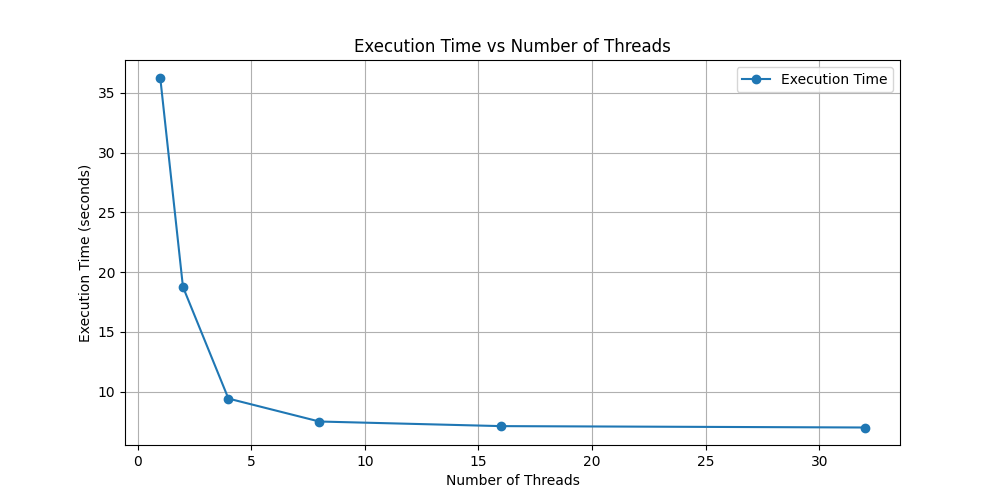
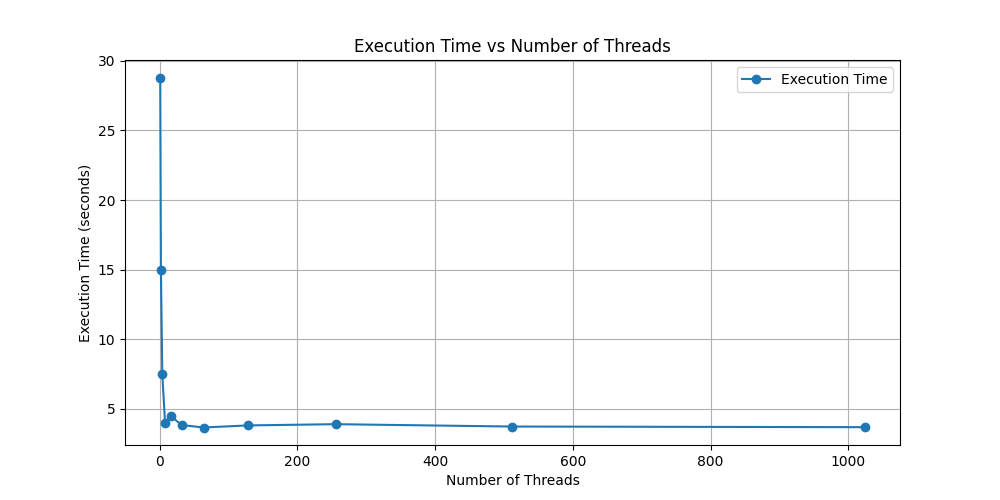
made final version of calculation with differnt array sizes

diff --git a/analyzer.py b/analyzer.py
@@ -3,9 +3,11 @@ import os
 import subprocess
 import numpy as np
 import math
+from prettytable import PrettyTable
 
 matrix_size = 1000 
-thread_counts = [1, 2, 4, 8, 16, 32]
+thread_counts = [1, 2, 4, 8, 16, 32, 64]
+array_sizes = [200, 500, 1000]
 program = "./main"
 results = []
 tolerance = 1e-6   
@@ -22,9 +24,8 @@ def generate_and_save_data(size):
     np.savetxt("vector_y.txt", y, fmt="%.6f")
     print(f"Generated and saved data for matrix size {size}.")
 
-def run_program(threads, use_files=False):
-    os.environ["OMP_NUM_THREADS"] = str(threads)
-    command = [program]
+def run_program(threads, size, use_files=False):
+    command = [program, "--threads", str(threads), "--size", str(size)]
     if use_files:
         command.append("--use-files")
     result = subprocess.run(command, capture_output=True, text=True)
@@ -43,17 +44,17 @@ def run_program(threads, use_files=False):
 # 1- prepare verification step 
 generate_and_save_data(matrix_size)
 
-print("Running sequential version (1 thread, with files)...")
-seq_time, seq_result = run_program(1, use_files=True)
+print("Running sequential version for checking (1 thread, with array size of 1000, With using generated array data)...")
+seq_time, seq_result = run_program(1, use_files=True, size=1000)
 if seq_time is None or seq_result is None:
     print("Failed to retrieve results for the sequential run.")
     exit()
 
-print(f"Sequential Result (from files): {seq_result}")
-print(f"Sequential Execution Time (from files): {seq_time} seconds")
+print(f"Sequential Result: {seq_result}")
+print(f"Sequential Execution Time: {seq_time} seconds")
 
 print(f"Running with 8 threads to compare the results with the sequential")
-par_time, par_result = run_program(8, use_files=True)
+par_time, par_result = run_program(8, use_files=True, size=1000)
 if par_time is None or par_result is None:
     print(f"Failed to retrieve results for 8 threads.")
 elif math.isclose(seq_result, par_result, rel_tol=tolerance):
@@ -62,55 +63,50 @@ else:
     print(f"Validation failed for 8 threads! Sequential: {seq_result}, Parallel: {par_result}")
 
 
+execution_times = {size: {} for size in array_sizes}  # Store execution times by size and thread count
+
 # 2- running all threads
-for threads in thread_counts:
-    print(f"Running with {threads} threads...")
-    os.environ["OMP_NUM_THREADS"] = str(threads)
-    result = subprocess.run([program], capture_output=True, text=True)
+for size in array_sizes:
+    for threads in thread_counts:
+        print(f"Running with {size} size {threads} threads...")
+        execution_time, computed_result = run_program(threads, use_files=False, size=size)
 
-    # Extract execution time from the output
-    execution_time = None
-    for line in result.stdout.split("\n"):
-        if "Execution Time" in line:
-            execution_time = float(line.split(":")[1].strip())
-            break
+        print(execution_time)
+        if execution_time is not None:
+                execution_times[size][threads] = execution_time
+        else:
+            print(f"Failed to extract execution time for {threads} threads.")
 
-    if execution_time is not None:
-        results.append((threads, execution_time))
-    else:
-        print(f"Failed to extract execution time for {threads} threads.")
 
-if not results:
-    print("No results captured. Ensure the C++ program is working correctly.")
-    exit()
+# Calculate speedups
+speedups = {size: {} for size in array_sizes}
+for size in array_sizes:
+    sequential_time = execution_times[size][1]  # Time for 1 thread as the baseline
+    for threads in thread_counts:
+        speedups[size][threads] = sequential_time / execution_times[size][threads]
 
-threads, times = zip(*results)
-sequential_time = times[0]
-speedups = [sequential_time / time for time in times]
+# Print speedup tables to console
+for size in array_sizes:
+    table = PrettyTable()
+    table.field_names = ["Threads", "Speedup"]
+    for threads in thread_counts:
+        table.add_row([threads, round(speedups[size][threads], 2)])
+    print(f"\nSpeedup Table for Matrix Size {size}x{size}")
+    print(table)
 
-# Execution Time vs Threads
-plt.figure(figsize=(10, 5))
-plt.plot(threads, times, marker="o", label="Execution Time")
-plt.title("Execution Time vs Number of Threads")
+
+plt.figure(figsize=(10, 6))
+for size in array_sizes:
+    speedup_values = [speedups[size][threads] for threads in thread_counts]
+    plt.plot(thread_counts, speedup_values, marker="o", label=f"Size {size}x{size}")
+
+plt.title("Speedup vs Threads (Acceleration Analysis)")
 plt.xlabel("Number of Threads")
-plt.ylabel("Execution Time (seconds)")
-plt.grid(True)
+plt.ylabel("Speedup (Acceleration)")
+plt.xticks(thread_counts)
+plt.grid()
 plt.legend()
-plt.savefig("execution_time_vs_threads.png")
+plt.savefig("speedup_vs_threads_analysis.png")
 plt.show()
 
-# Speedup vs Threads
-plt.figure(figsize=(10, 5))
-plt.plot(threads, speedups, marker="o", label="Speedup")
-plt.title("Speedup vs Number of Threads (Amdahl's Law)")
-plt.xlabel("Number of Threads")
-plt.ylabel("Speedup")
-plt.grid(True)
-plt.legend()
-plt.savefig("speedup_vs_threads.png")
-plt.show()
 
-print("\nResults:")
-print(f"{'Threads':<10}{'Execution Time':<20}{'Speedup':<10}")
-for t, time, speedup in zip(threads, times, speedups):
-    print(f"{t:<10}{time:<20}{speedup:<10}")

diff --git a/main.cpp b/main.cpp
@@ -14,9 +14,11 @@ void generate_vector(vector<double> &vec, int n);
 double scalar_product(const vector<double> &x, const vector<double> &y, int n);
 void matrix_multiply(const vector<vector<double>> &A, const vector<vector<double>> &B, vector<vector<double>> &C, int n);
 
-int main(int argc, char *argv[]) {
-    int n = 1000;
+int main(int argc, char *argv[])
+{
+    int n = 1000, threads = 1;
     int i, j;
+    bool use_file = false;
 
     vector<vector<double>> B(n, vector<double>(n));
     vector<vector<double>> B3(n, vector<double>(n));
@@ -24,14 +26,32 @@ int main(int argc, char *argv[]) {
     vector<double> x(n);
     vector<double> y(n);
 
-    bool use_file = (argc > 1 && string(argv[1]) == "--use-files");
+    for (int i = 1; i < argc; i++)
+    {
+        string arg = argv[i];
+        if (arg == "--size" && i + 1 < argc)
+        {
+            n = stoi(argv[++i]);
+        }
+        else if (arg == "--threads" && i + 1 < argc)
+        {
+            threads = stoi(argv[++i]);
+        } else if (arg == "--use-files") {
+            use_file = true;
+        }
+    }
 
-    if (use_file) {
+    omp_set_num_threads(threads);
+
+    if (use_file)
+    {
         cout << "Reading data from files..." << endl;
         read_matrix("matrix_B.txt", B, n);
         read_vector("vector_x.txt", x, n);
         read_vector("vector_y.txt", y, n);
-    } else {
+    }
+    else
+    {
         cout << "Generating random data..." << endl;
         srand(time(NULL));
         generate_matrix(B, n);
@@ -52,19 +72,21 @@ int main(int argc, char *argv[]) {
 
     // Compute B^4 * x and B^3 * x
     vector<double> B4x(n, 0.0), B3x(n, 0.0);
-    #pragma omp parallel for
-    for (int i = 0; i < n; i++) {
-        for (int j = 0; j < n; j++) {
+#pragma omp parallel for
+    for (int i = 0; i < n; i++)
+    {
+        for (int j = 0; j < n; j++)
+        {
             B4x[i] += B4[i][j] * x[j];
             B3x[i] += B3[i][j] * x[j];
         }
     }
-    #pragma omp parallel sections
+#pragma omp parallel sections
     {
-        #pragma omp section
+#pragma omp section
         scalar_B4xy = scalar_product(B4x, y, n);
 
-        #pragma omp section
+#pragma omp section
         scalar_B3xy = scalar_product(B3x, y, n);
     }
 
@@ -79,38 +101,44 @@ int main(int argc, char *argv[]) {
 }
 
 // Function to generate a random matrix
-void generate_matrix(vector<vector<double>> &matrix, int n) {
+void generate_matrix(vector<vector<double>> &matrix, int n)
+{
     for (int i = 0; i < n; i++)
         for (int j = 0; j < n; j++)
             matrix[i][j] = (double)rand() / RAND_MAX * 10.0;
 }
 
-void generate_vector(vector<double> &vec, int n) {
+void generate_vector(vector<double> &vec, int n)
+{
     for (int i = 0; i < n; i++)
         vec[i] = (double)rand() / RAND_MAX * 10.0;
 }
 
-double scalar_product(const vector<double> &x, const vector<double> &y, int n) {
+double scalar_product(const vector<double> &x, const vector<double> &y, int n)
+{
     double result = 0.0;
 
-    #pragma omp parallel for reduction(+:result)
+#pragma omp parallel for reduction(+ : result)
     for (int i = 0; i < n; i++)
         result += x[i] * y[i];
 
     return result;
 }
 
-void matrix_multiply(const vector<vector<double>> &A, const vector<vector<double>> &B, vector<vector<double>> &C, int n) {
-    #pragma omp parallel for
+void matrix_multiply(const vector<vector<double>> &A, const vector<vector<double>> &B, vector<vector<double>> &C, int n)
+{
+#pragma omp parallel for
     for (int i = 0; i < n; i++)
-        for (int j = 0; j < n; j++) {
+        for (int j = 0; j < n; j++)
+        {
             C[i][j] = 0.0;
             for (int k = 0; k < n; k++)
                 C[i][j] += A[i][k] * B[k][j];
         }
 }
 
-void read_matrix(const string &filename, vector<vector<double>> &matrix, int n) {
+void read_matrix(const string &filename, vector<vector<double>> &matrix, int n)
+{
     ifstream file(filename);
     for (int i = 0; i < n; ++i)
         for (int j = 0; j < n; ++j)
@@ -118,7 +146,8 @@ void read_matrix(const string &filename, vector<vector<double>> &matrix, int n) 
     file.close();
 }
 
-void read_vector(const string &filename, vector<double> &vec, int n) {
+void read_vector(const string &filename, vector<double> &vec, int n)
+{
     ifstream file(filename);
     for (int i = 0; i < n; ++i)
         file >> vec[i];
